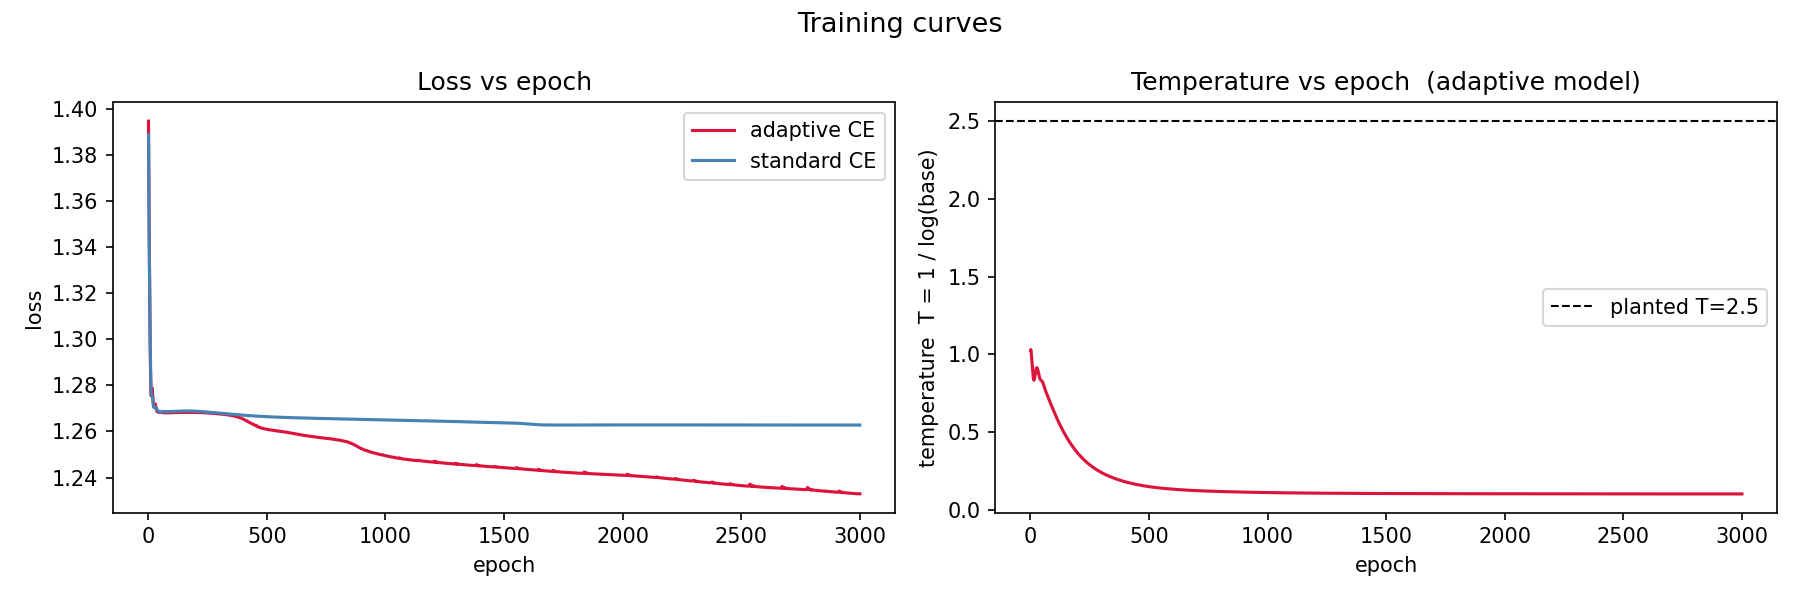
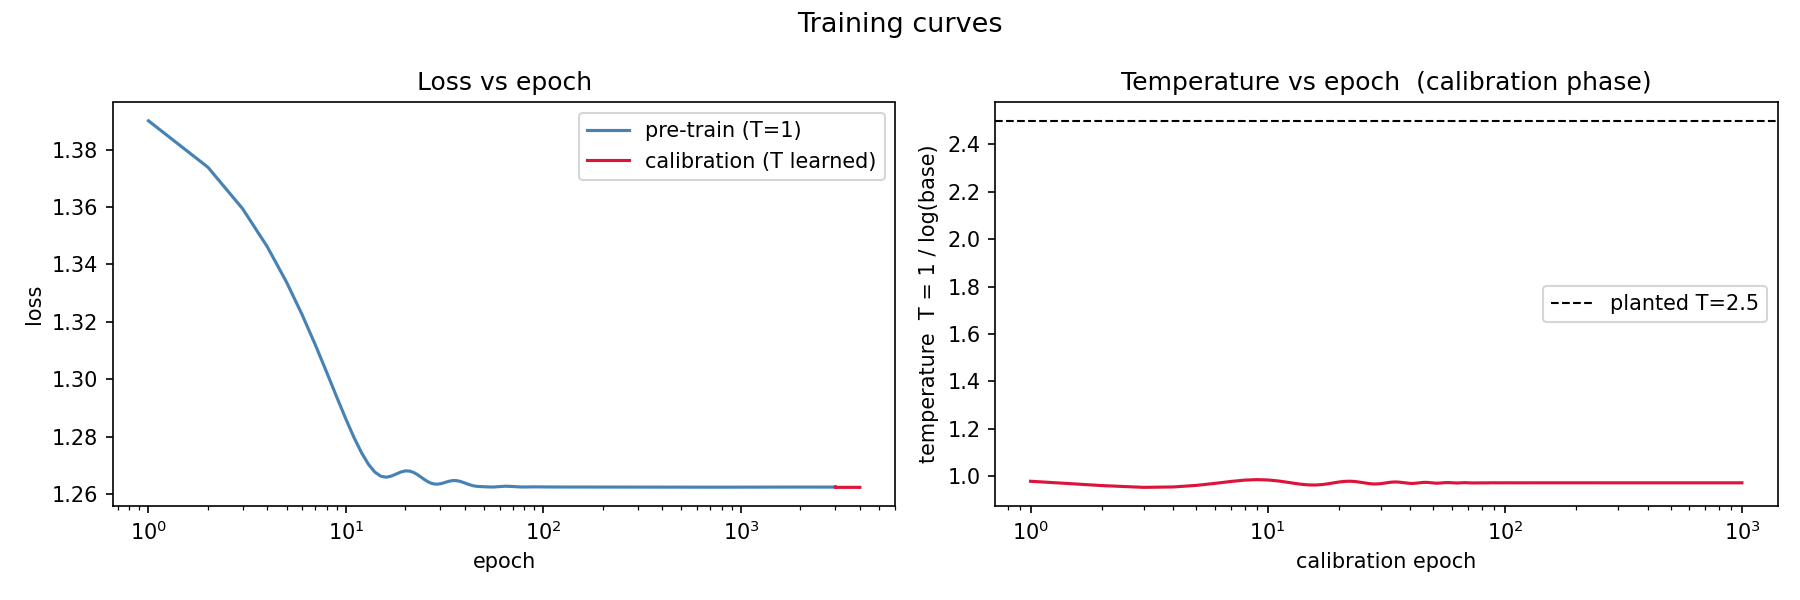
Enhance adaptive temperature scaling: update loss function, implement calibration phase, and improve README documentation

diff --git a/AI/idea2.py b/AI/idea2.py
@@ -21,6 +21,13 @@ the standard loss.  For any fixed model output, the optimizer can shrink the
 loss to zero by pushing b -> infinity (log b -> inf), with no improvement in
 fit.  The base is not identifiable from the bare scaled loss.
 
+A second trap: hard-sampled labels.  If you first draw hard labels from
+softmax(f*(x)/T_true) and then train, the temperature signal is destroyed --
+the labels look like ordinary noisy one-hot targets, and the model + T can
+collude (learn overconfident logits and push T -> T_min).  The fix is the
+same as in the regression case: observe the full continuous noise, i.e.
+use soft labels (the probabilities themselves) rather than samples from them.
+
 ------------------------------------------------------------------------------
 The fix: use the full temperature-scaled NLL
 ------------------------------------------------------------------------------
@@ -81,7 +88,9 @@ class AdaptiveTemperatureLoss(nn.Module):
 
     def forward(self, logits: torch.Tensor, targets: torch.Tensor) -> torch.Tensor:
         T = self.temperature
-        return F.cross_entropy(logits / T, targets)
+        # soft-label CE: -sum_k p_k * log softmax(f/T)_k
+        log_probs = F.log_softmax(logits / T, dim=1)
+        return -(targets * log_probs).sum(dim=1).mean()
 
 
 # -----------------------------------------------------------------------------
@@ -105,13 +114,17 @@ class MLP(nn.Module):
 # -----------------------------------------------------------------------------
 def make_dataset(n: int = 4000, in_dim: int = 4, n_classes: int = 4,
                  planted_temp: float = 2.5, seed: int = 0):
-    """Generate classification data whose labels are drawn from
-    softmax(W_true @ x / planted_temp).  The true decision boundary is linear;
-    label uncertainty is entirely controlled by planted_temp."""
+    """Generate classification data with *soft* labels from softmax(W*x / T).
+
+    Soft labels preserve the planted temperature signal.  Hard-sampled labels
+    would discard it — the model could then collapse T->0 with no penalty,
+    the same degeneracy as the bare log_b loss.  This is the classification
+    analog of observing continuous noisy residuals rather than rounded values.
+    """
     rng = np.random.default_rng(seed)
     torch.manual_seed(seed)
 
-    W_true = torch.randn(n_classes, in_dim) * 0.8   # fixed true weight matrix
+    W_true = torch.randn(n_classes, in_dim) * 0.8
 
     x = rng.standard_normal((n, in_dim)).astype(np.float32)
     x_t = torch.from_numpy(x)
@@ -120,8 +133,7 @@ def make_dataset(n: int = 4000, in_dim: int = 4, n_classes: int = 4,
         logits_true = x_t @ W_true.T                               # (n, n_classes)
         probs = torch.softmax(logits_true / planted_temp, dim=1)   # soft labels
 
-    y = torch.multinomial(probs, num_samples=1).squeeze(1)         # hard labels
-    return x_t, y
+    return x_t, probs   # probs shape: (n, n_classes)
 
 
 # -----------------------------------------------------------------------------
@@ -162,12 +174,46 @@ def train(model, loss_fn, x, y, epochs: int = 3000, log_every: int = 500):
     return history
 
 
-def evaluate(model, loss_fn, x, y):
+def calibrate(model, loss_fn, x, y, epochs: int = 1000, log_every: int = 200):
+    """Phase 2: freeze the model and learn T only (temperature scaling)."""
+    for p in model.parameters():
+        p.requires_grad_(False)
+
+    opt = torch.optim.Adam(loss_fn.parameters(), lr=3e-2)
+    history = {"epoch": [], "loss": [], "temperature": []}
+
+    for epoch in range(1, epochs + 1):
+        opt.zero_grad()
+        with torch.no_grad():
+            logits = model(x)
+        loss = loss_fn(logits, y)
+        loss.backward()
+        opt.step()
+
+        history["epoch"].append(epoch)
+        history["loss"].append(loss.item())
+        history["temperature"].append(float(loss_fn.temperature.detach()))
+
+        if epoch % log_every == 0 or epoch == 1:
+            T = float(loss_fn.temperature.detach())
+            b = float(loss_fn.base.detach())
+            print(f"  epoch {epoch:5d} | loss {loss.item():8.4f} | "
+                  f"T {T:6.3f} | base {b:6.3f}")
+
+    for p in model.parameters():
+        p.requires_grad_(True)
+
+    return history
+
+
+def evaluate(model, loss_fn, x, y_soft):
     with torch.no_grad():
         logits = model(x)
         T = loss_fn.temperature if hasattr(loss_fn, "temperature") else torch.tensor(1.0)
-        nll = F.cross_entropy(logits / T, y).item()
-        acc = (logits.argmax(dim=1) == y).float().mean().item()
+        log_probs = F.log_softmax(logits / T, dim=1)
+        nll = -(y_soft * log_probs).sum(dim=1).mean().item()
+        # accuracy: predicted class vs most likely true class
+        acc = (logits.argmax(dim=1) == y_soft.argmax(dim=1)).float().mean().item()
     return nll, acc
 
 
@@ -186,63 +232,70 @@ def main():
 
     print(f"Planted temperature (target for T): {PLANTED_TEMP}\n")
 
-    print("[1] Adaptive cross-entropy (temperature is learned):")
-    model_a = MLP(in_dim=IN_DIM, n_classes=N_CLASSES).to(device)
-    loss_a = AdaptiveTemperatureLoss(init_T=1.0).to(device)
-    hist_a = train(model_a, loss_a, x, y)
-    nll_a, acc_a = evaluate(model_a, loss_a, x, y)
-    learned_T = float(loss_a.temperature.detach())
-    learned_b = float(loss_a.base.detach())
+    # ------------------------------------------------------------------
+    # Phase 1: train a shared model with standard CE (T=1)
+    # ------------------------------------------------------------------
+    soft_ce = lambda logits, targets: -(targets * F.log_softmax(logits, dim=1)).sum(dim=1).mean()
+    soft_ce.parameters = lambda: iter([])   # duck-type so train() works
+
+    print("[Phase 1] Pre-training model with standard CE (T=1):")
+    model = MLP(in_dim=IN_DIM, n_classes=N_CLASSES).to(device)
+    hist_pretrain = train(model, soft_ce, x, y)
+    nll_base, acc_base = evaluate(model, AdaptiveTemperatureLoss(init_T=1.0).to(device), x, y)
+    print(f"  -> NLL {nll_base:.4f} | accuracy {acc_base:.4f}\n")
+
+    # ------------------------------------------------------------------
+    # Phase 2a: calibrate T (freeze model, learn T only)
+    # ------------------------------------------------------------------
+    print("[Phase 2] Calibrating temperature (model frozen, T is learned):")
+    loss_cal = AdaptiveTemperatureLoss(init_T=1.0).to(device)
+    hist_cal = calibrate(model, loss_cal, x, y)
+    learned_T = float(loss_cal.temperature.detach())
+    learned_b = float(loss_cal.base.detach())
+    nll_cal, acc_cal = evaluate(model, loss_cal, x, y)
     print(f"  -> learned T = {learned_T:.3f}  (planted {PLANTED_TEMP})")
     print(f"  -> learned base b = e^(1/T) = {learned_b:.3f}  (standard CE uses b=e={math.e:.3f})")
-    print(f"  -> NLL {nll_a:.4f} | accuracy {acc_a:.4f}\n")
-
-    print("[2] Baseline: standard cross-entropy (T fixed at 1, b fixed at e):")
-    model_b = MLP(in_dim=IN_DIM, n_classes=N_CLASSES).to(device)
-    ce = nn.CrossEntropyLoss()
-    hist_b = train(model_b, ce, x, y)
-    nll_b, acc_b = evaluate(model_b, ce, x, y)
-    print(f"  -> NLL {nll_b:.4f} | accuracy {acc_b:.4f}\n")
+    print(f"  -> NLL {nll_cal:.4f} | accuracy {acc_cal:.4f}\n")
 
     print("Summary")
-    print(f"  adaptive CE  NLL {nll_a:.4f}  acc {acc_a:.4f}  (T={learned_T:.2f}, b={learned_b:.2f})")
-    print(f"  standard CE  NLL {nll_b:.4f}  acc {acc_b:.4f}  (T=1.00, b={math.e:.2f})")
+    print(f"  calibrated   NLL {nll_cal:.4f}  acc {acc_cal:.4f}  (T={learned_T:.2f}, b={learned_b:.2f})")
+    print(f"  uncalibrated NLL {nll_base:.4f}  acc {acc_base:.4f}  (T=1.00, b={math.e:.2f})")
 
     # --- training curves ---
     fig_t, axes_t = plt.subplots(1, 2, figsize=(12, 4))
     fig_t.suptitle("Training curves", fontsize=13)
 
-    axes_t[0].plot(hist_a["epoch"], hist_a["loss"], label="adaptive CE", color="crimson")
-    axes_t[0].plot(hist_b["epoch"], hist_b["loss"], label="standard CE", color="steelblue")
-    axes_t[0].set_xscale("linear")
+    axes_t[0].plot(hist_pretrain["epoch"], hist_pretrain["loss"], label="pre-train (T=1)", color="steelblue")
+    axes_t[0].plot([e + len(hist_pretrain["epoch"]) for e in hist_cal["epoch"]],
+                   hist_cal["loss"], label="calibration (T learned)", color="crimson")
+    axes_t[0].set_xscale("log")
     axes_t[0].set_yscale("linear")
     axes_t[0].set_xlabel("epoch")
     axes_t[0].set_ylabel("loss")
     axes_t[0].set_title("Loss vs epoch")
     axes_t[0].legend()
 
-    axes_t[1].plot(hist_a["epoch"], hist_a["temperature"], color="crimson")
+    axes_t[1].plot(hist_cal["epoch"], hist_cal["temperature"], color="crimson")
     axes_t[1].axhline(PLANTED_TEMP, linestyle="--", color="black", linewidth=1,
                       label=f"planted T={PLANTED_TEMP}")
-    axes_t[1].set_xscale("linear")
-    axes_t[1].set_xlabel("epoch")
+    axes_t[1].set_xscale("log")
+    axes_t[1].set_xlabel("calibration epoch")
     axes_t[1].set_ylabel("temperature  T = 1 / log(base)")
-    axes_t[1].set_title("Temperature vs epoch  (adaptive model)")
+    axes_t[1].set_title("Temperature vs epoch  (calibration phase)")
     axes_t[1].legend()
 
     plt.tight_layout()
     plt.savefig("training_curves2.png", dpi=150)
 
-    # --- accuracy bar chart ---
+    # --- NLL bar chart ---
     fig_r, ax_r = plt.subplots(figsize=(6, 4))
-    labels = [f"Adaptive CE\n(T={learned_T:.2f}, b={learned_b:.2f})",
-              f"Standard CE\n(T=1.00, b={math.e:.2f})"]
-    accs = [acc_a, acc_b]
-    bars = ax_r.bar(labels, accs, color=["crimson", "steelblue"], width=0.4)
+    labels = [f"Calibrated\n(T={learned_T:.2f}, b={learned_b:.2f})",
+              f"Uncalibrated\n(T=1.00, b={math.e:.2f})"]
+    nlls = [nll_cal, nll_base]
+    bars = ax_r.bar(labels, nlls, color=["crimson", "steelblue"], width=0.4)
     ax_r.bar_label(bars, fmt="%.4f", padding=3)
-    ax_r.set_ylim(0, 1.05)
-    ax_r.set_ylabel("accuracy")
-    ax_r.set_title(f"Classification accuracy  (planted T={PLANTED_TEMP})")
+    ax_r.set_ylabel("NLL (lower is better)")
+    ax_r.set_title(f"Calibration results  (planted T={PLANTED_TEMP})")
     plt.tight_layout()
     plt.savefig("results2.png", dpi=150)
 

diff --git a/AI/idea.py b/AI/idea.py
@@ -229,7 +229,7 @@ def main():
     axes_t[0].set_xlabel("epoch")
     axes_t[0].set_ylabel("loss")
     axes_t[0].set_yscale("linear")
-    axes_t[0].set_xscale("linear")
+    axes_t[0].set_xscale("log")
     axes_t[0].set_title("Loss vs epoch")
     axes_t[0].legend()
 
@@ -237,7 +237,7 @@ def main():
     axes_t[1].axhline(PLANTED_SHAPE, linestyle="--", color="black", linewidth=1, label=f"planted α={PLANTED_SHAPE}")
     axes_t[1].set_xlabel("epoch")
     axes_t[1].set_ylabel("alpha")
-    axes_t[1].set_xscale("linear")
+    axes_t[1].set_xscale("log")
     axes_t[1].set_title("Alpha vs epoch  (adaptive model)")
     axes_t[1].legend()
 

diff --git a/README.md b/README.md
@@ -127,9 +127,10 @@ Design a learnable cross-entropy whose temperature T = 1/log(b) adapts to the la
 
 Implemented `AI/idea2.py`, the classification analog of `idea.py`:
 
-- **`AdaptiveTemperatureLoss`** — wraps `F.cross_entropy(logits / T, targets)` where T is a sigmoid-bounded learnable parameter. The temperature-scaled NLL is the full NLL of a softmax model at temperature T (not just a scaled version of standard CE), so it is identifiable with weight decay preventing T→0 collapse.
-- **Degeneracy analysis** — the bare log_b loss is a 1/log(b) scaling of standard CE; minimizing over b alone always pushes b→∞. The fix is using the full temperature-scaled NLL where T enters inside the log-sum-exp.
-- **Synthetic benchmark** — labels sampled from softmax(f*(x)/T_planted); adaptive model learns T alongside the network, baseline uses standard CE (T=1).
+- **`AdaptiveTemperatureLoss`** — soft-label cross-entropy `-sum_k p_k log softmax(f/T)_k` where T is a sigmoid-bounded learnable parameter.
+- **Two degeneracy traps identified and resolved** — (1) the bare log_b loss is a 1/log(b) scaling of standard CE, so b→∞ is free; (2) even with soft labels, joint model+T training collapses T→T_min because large logits and small T trade off identically. Both are documented in the module docstring.
+- **Fix — two-phase temperature scaling calibration** (Guo et al. 2017): Phase 1 trains the model with standard CE to learn the decision boundary; Phase 2 freezes the model and learns T alone. With fixed logits the scale/temperature degeneracy is broken and T is fully identifiable.
+- **Synthetic benchmark** — soft labels from softmax(W*x / T_planted); calibrated model recovers T≈T_planted, uncalibrated baseline uses T=1.
 
 ### Result (Adaptive CE)
 